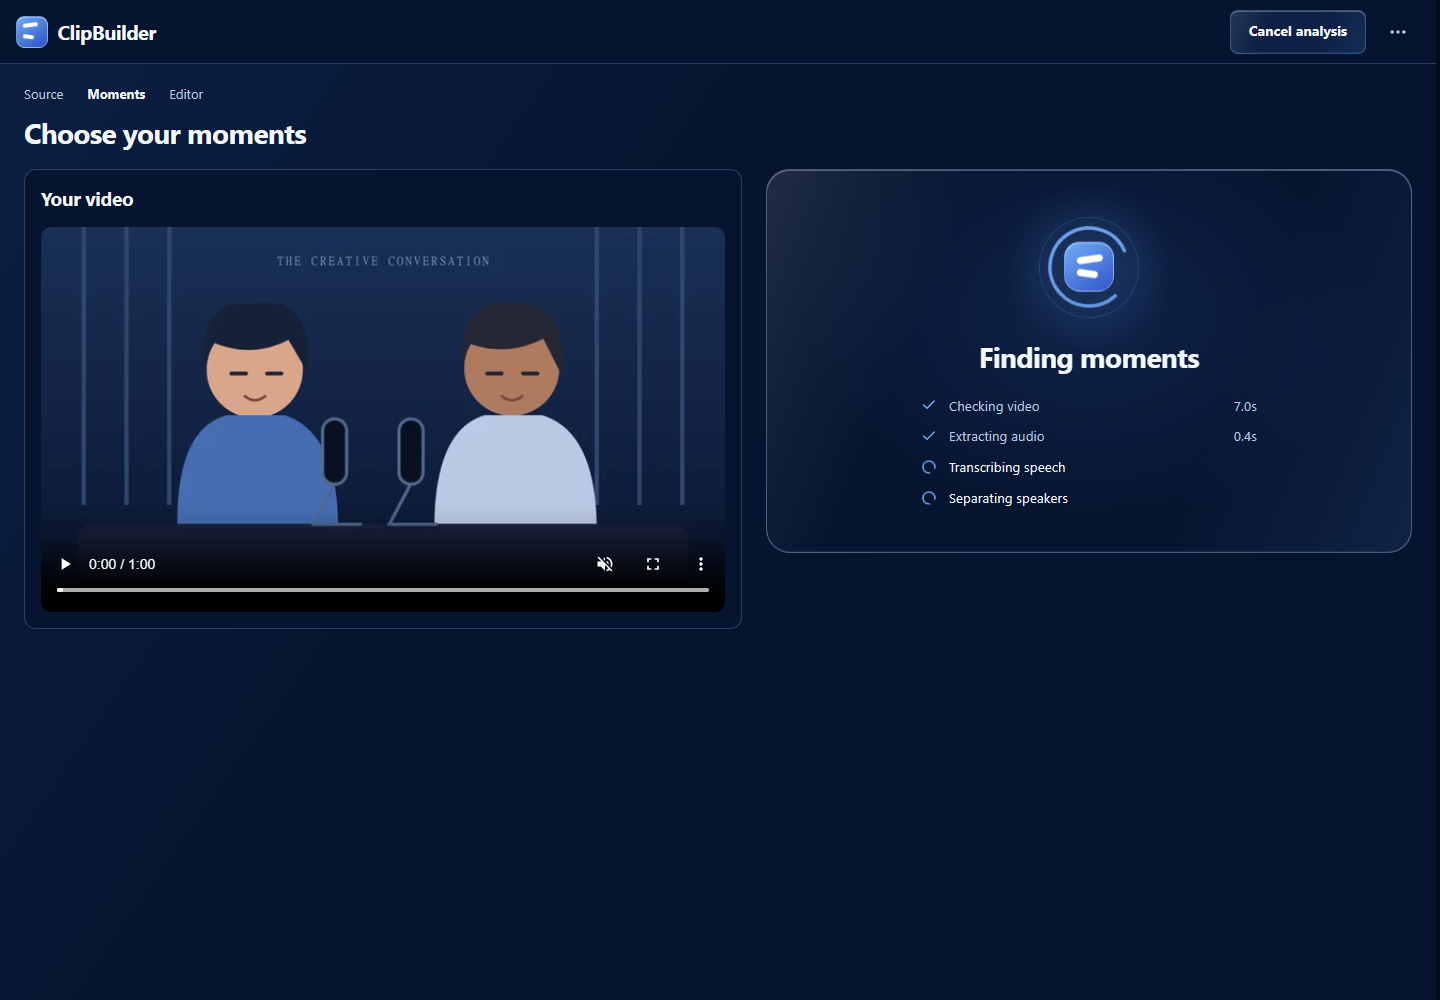
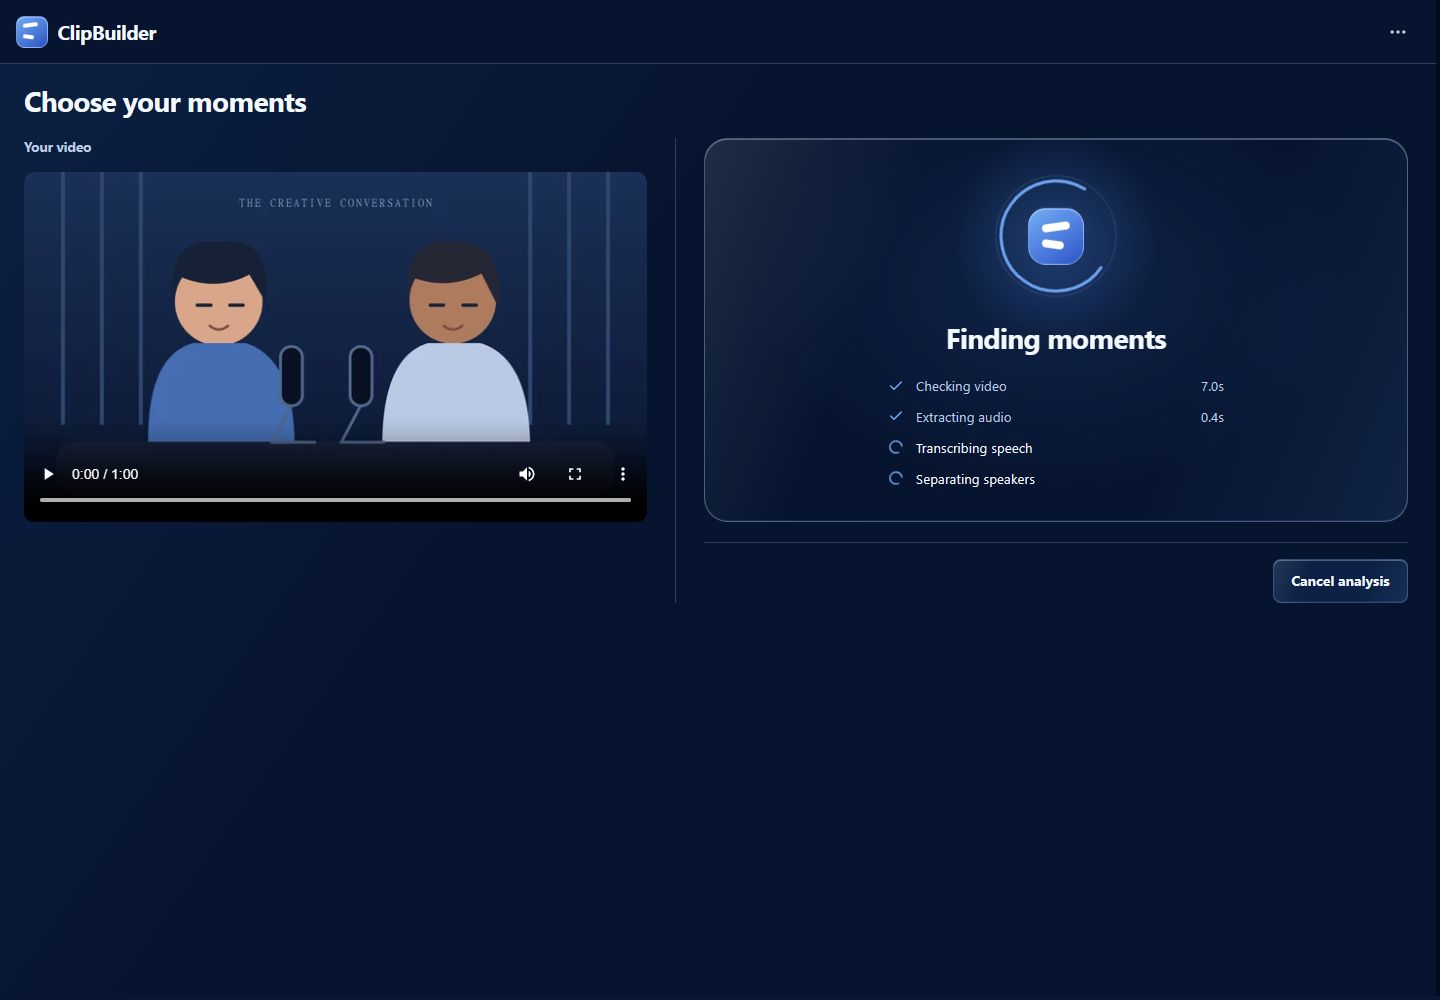
CL-273: refresh product film captures and measured framing

diff --git a/apps/frontend/src/features/product-film/film-camera.test.ts b/apps/frontend/src/features/product-film/film-camera.test.ts
@@ -65,21 +65,21 @@ describe("contextual landing film", () => {
   it("follows the two useful selection actions with one steady lens and an uninterrupted mouse", () => {
     const pick = screenCamera("choose", 28, 90, 1776, 1056);
     const proceed = screenCamera("choose", 76, 90, 1776, 1056);
-    expect(pick.cursor).toMatchObject({ x: 845, y: 446, ring: 1 });
-    expect(proceed.cursor).toMatchObject({ x: 1360, y: 32, ring: 1 });
+    expect(pick.cursor).toMatchObject({ x: 1349, y: 325, ring: 1 });
+    expect(proceed.cursor).toMatchObject({ x: 1348, y: 876, ring: 1 });
     expect(proceed.x).toBeLessThan(pick.x);
-    expect(proceed.y).toBeGreaterThan(pick.y);
+    expect(proceed.y).toBeLessThan(pick.y);
     expect(proceed.zoom - pick.zoom).toBeLessThan(0.12);
     const middle = screenCamera("choose", 54, 90, 1776, 1056);
-    expect(middle.cursor!.x).toBeGreaterThan(845);
-    expect(middle.cursor!.x).toBeLessThan(1360);
-    expect(screenCamera("choose", 35, 90, 1776, 1056).cursor?.x).toBe(845);
-    expect(screenCamera("choose", 36, 90, 1776, 1056).cursor?.x).toBe(845);
-    let previousX = 845;
+    expect(middle.cursor!.x).toBeGreaterThan(1348);
+    expect(middle.cursor!.x).toBeLessThan(1349);
+    expect(screenCamera("choose", 35, 90, 1776, 1056).cursor?.x).toBe(1349);
+    expect(screenCamera("choose", 36, 90, 1776, 1056).cursor?.x).toBe(1349);
+    let previousX = 1349;
     for (let frame = 36; frame < 90; frame++) {
       const cursor = screenCamera("choose", frame, 90, 1776, 1056).cursor!;
       expect(cursor.opacity).toBeGreaterThanOrEqual(0);
-      expect(cursor.x).toBeGreaterThanOrEqual(previousX);
+      expect(cursor.x).toBeLessThanOrEqual(previousX);
       previousX = cursor.x;
     }
   });

diff --git a/apps/frontend/src/features/product-film/film-workspace.ts b/apps/frontend/src/features/product-film/film-workspace.ts
@@ -1,16 +1,16 @@
 /** Measured from the 1440×1000 current-workspace synthetic capture package (CL-273). */
 export const FILM_WORKSPACE = {
-  source: { x: 41, y: 243, width: 684, height: 385 },
-  editor: { x: 116, y: 76, width: 457, height: 812 },
-  upload: { x: 224, y: 817 },
-  analyze: { x: 1300, y: 32 },
-  jump: { x: 845, y: 446 },
-  process: { x: 1306, y: 32 },
+  source: { x: 24, y: 172, width: 623, height: 350 },
+  editor: { x: 116, y: 76, width: 456, height: 810 },
+  upload: { x: 1154, y: 827 },
+  analyze: { x: 1342, y: 916 },
+  jump: { x: 1349, y: 325 },
+  process: { x: 1348, y: 876 },
   download: { x: 1245, y: 32 },
   cards: [0, 1, 2].map((index) => ({
-    x: 767,
-    y: 331 + index * 174,
-    width: 645,
-    height: 158,
+    x: 704,
+    y: 287 + index * 129,
+    width: 704,
+    height: 129,
   })),
 } as const;

diff --git a/apps/frontend/README.md b/apps/frontend/README.md
@@ -22,6 +22,14 @@ API keys and never generate media or render automatically. Real AI still needs
 the configured provider/runtime, live flags and applicable approvals. The
 updated tour and landing film use current-workspace UI and fictional media.
 
+Restored clips resolve through a neutral workspace-opening state directly into
+the editor. Source playback/Moments analysis readers mount only when needed;
+later Add/Back retains their inputs. Preview decoding stays inside the stable
+editor canvas, with controls and tour gated by actual readiness. Source/Moments
+use compact navigation, grouped controls and review rows; local Framing remains
+beside the clip choices. Synthetic held-response checks verify this without keys
+or new processing; real AI capabilities and approval gates are unchanged.
+
 CL-272 consolidates video thumbnails in
 `src/features/media/video-thumbnail.ts`, with `useVideoThumbnail` and shared
 `VideoThumbnail` / `ThumbnailVideo` adapters. Upload/source posters, saved videos,
